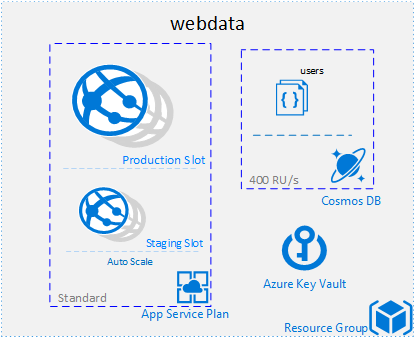
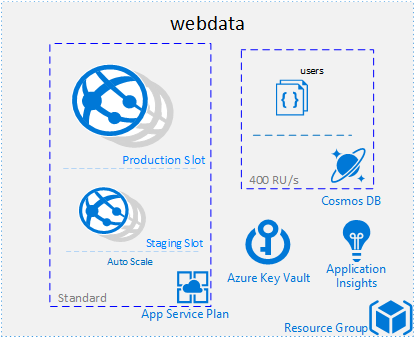
Added App Insights Module

Changed region(s): [[0.5494, 0.6433, 0.9253, 0.848]]

diff --git a/magefile.go b/magefile.go
@@ -16,22 +16,22 @@ import (
 // A build step that runs all tests.
 func All() {
 	mg.Deps(Test)
-	mg.Deps(SampleSimpleWeb)
-	mg.Deps(SampleWebData)
+	mg.Deps(TestSimpleWeb)
+	mg.Deps(TestWebData)
 }
 
 // Execute Integration Tests for the simpleweb sample. Only executes tests in 'simpleweb' directories.
-func SampleSimpleWeb() error {
+func TestSimpleWeb() error {
 	mg.Deps(Clean)
-	mg.Deps(Format)
+	mg.Deps(Check)
 	fmt.Println("INFO: Running sample tests...")
 	return FindAndRunTests("simpleweb")
 }
 
 // Execute Integration Tests for the webdata sample. Only executes tests in 'webdata' directories.
-func SampleWebData() error {
+func TestWebData() error {
 	mg.Deps(Clean)
-	mg.Deps(Format)
+	mg.Deps(Check)
 	fmt.Println("INFO: Running sample tests...")
 	return FindAndRunTests("webdata")
 }
@@ -39,13 +39,13 @@ func SampleWebData() error {
 // Execute Module Tests and fail if a test fails. Only executes tests in 'test' directories.
 func Test() error {
 	mg.Deps(Clean)
-	mg.Deps(Format)
+	mg.Deps(Check)
 	fmt.Println("INFO: Running unit tests...")
 	return FindAndRunTests("test")
 }
 
-// Lint check both Terraform code and Go code.
-func Format() {
+// Validate both Terraform code and Go code.
+func Check() {
 	mg.Deps(LintTF)
 	mg.Deps(LintGO)
 }

diff --git a/modules/app-insights/test/unit_test.go b/modules/app-insights/test/unit_test.go
@@ -1,0 +1,47 @@
+package test
+
+import (
+	"encoding/json"
+	"testing"
+
+	"github.com/gruntwork-io/terratest/modules/random"
+	"github.com/gruntwork-io/terratest/modules/terraform"
+	"github.com/microsoft/cobalt/test-harness/infratests"
+)
+
+var name = "appinsights-"
+var count = 4
+
+var tfOptions = &terraform.Options{
+	TerraformDir: "./",
+	Upgrade:      true,
+}
+
+func asMap(t *testing.T, jsonString string) map[string]interface{} {
+	var theMap map[string]interface{}
+	if err := json.Unmarshal([]byte(jsonString), &theMap); err != nil {
+		t.Fatal(err)
+	}
+	return theMap
+}
+
+func TestTemplate(t *testing.T) {
+
+	expectedResult := asMap(t, `{
+		"application_type": "java",
+		"sampling_percentage": 100
+	}`)
+
+	testFixture := infratests.UnitTestFixture{
+		GoTest:                t,
+		TfOptions:             tfOptions,
+		Workspace:             name + random.UniqueId(),
+		PlanAssertions:        nil,
+		ExpectedResourceCount: count,
+		ExpectedResourceAttributeValues: infratests.ResourceDescription{
+			"module.app_insights.azurerm_application_insights.main": expectedResult,
+		},
+	}
+
+	infratests.RunUnitTests(&testFixture)
+}

diff --git a/modules/app-insights/README.md b/modules/app-insights/README.md
@@ -1,0 +1,45 @@
+# Module app-insights
+
+A terraform module that provisions application insights with the following characteristics: 
+
+- Specifies the type of Application Insights to create. Valid values are ios for iOS, java for Java web, MobileCenter for App Center, Node.JS for Node.js, other for General, phone for Windows Phone, store for Windows Store and web for ASP.NET. Please note these values are case sensitive; unmatched values are treated as ASP.NET by Azure. Changing this forces a new resource to be created.
+
+
+## Usage
+
+```
+module "resource_group" {
+  source = "github.com/danielscholl/iac-terraform/modules/resource-group"
+
+  name     = "iac-terraform"
+  location = "eastus2"
+}
+
+module "app_insights" {
+  source              = "github.com/danielscholl/iac-terraform/modules/app-insights"
+  name                = "iac-terraform-insights-${module.resource_group.random}"
+  resource_group_name = module.resource_group.name
+
+  resource_tags = {
+    iac = "terraform"
+  }
+}
+```
+
+## Inputs
+
+| Variable Name                     | Type       | Description                          | 
+| --------------------------------- | ---------- | ------------------------------------ |
+| `name`                            | _string_   | The name of the web app service.     |
+| `resource_group_name`             | _string_   | The name of an existing resource group. |
+| `resource_tags`                   | _list_     | Map of tags to apply to taggable resources in this module. |
+| `type`                            | _string_   | Type of the App Insights Application. Default: `java` |
+
+
+## Outputs
+
+Once the deployments are completed successfully, the output for the current module will be in the format mentioned below:
+
+- `id`: The Application Insights Id.
+- `instrumentation_key`: The Application Insights Instrumentation Key.
+

diff --git a/README.md b/README.md
@@ -112,14 +112,14 @@ terraform init \
 iac-terraform task runner.
 
 Targets:
-  all                A build step that runs all tests.
-  clean              Remove temporary build and test files.
-  format             Lint check both Terraform code and Go code.
-  lintGO             Lint check Go and fail if files are not not formatted properly.
-  lintTF             Lint check Terraform and fail if files are not formatted properly.
-  sampleSimpleWeb    Execute Integration Tests for the simpleweb sample.
-  sampleWebData      Execute Integration Tests for the webdata sample.
-  test               Execute Module Tests and fail if a test fails.
+  all              A build step that runs all tests.
+  check            Validate both Terraform code and Go code.
+  clean            Remove temporary build and test files.
+  lintGO           Lint check Go and fail if files are not not formatted properly.
+  lintTF           Lint check Terraform and fail if files are not formatted properly.
+  test             Execute Module Tests and fail if a test fails.
+  testSimpleWeb    Execute Integration Tests for the simpleweb sample.
+  testWebData      Execute Integration Tests for the webdata sample.
 ```
 
 2. Deploying Sample Templates
